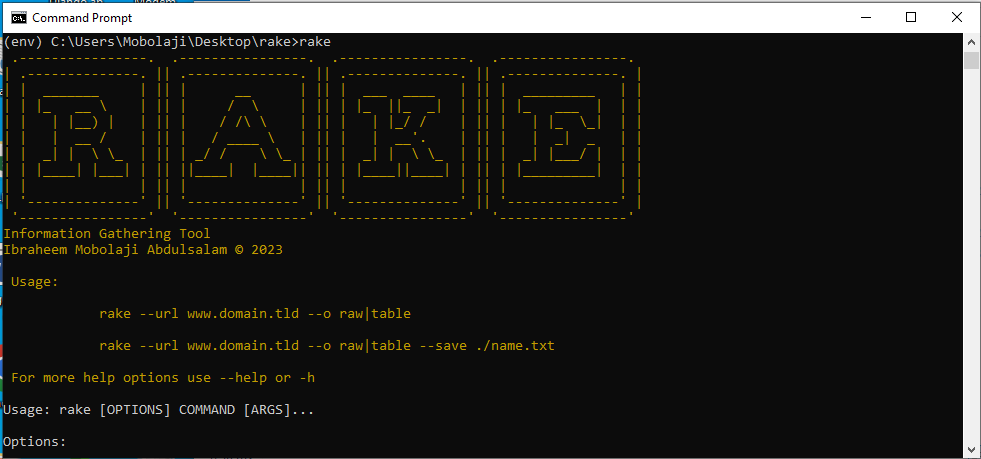
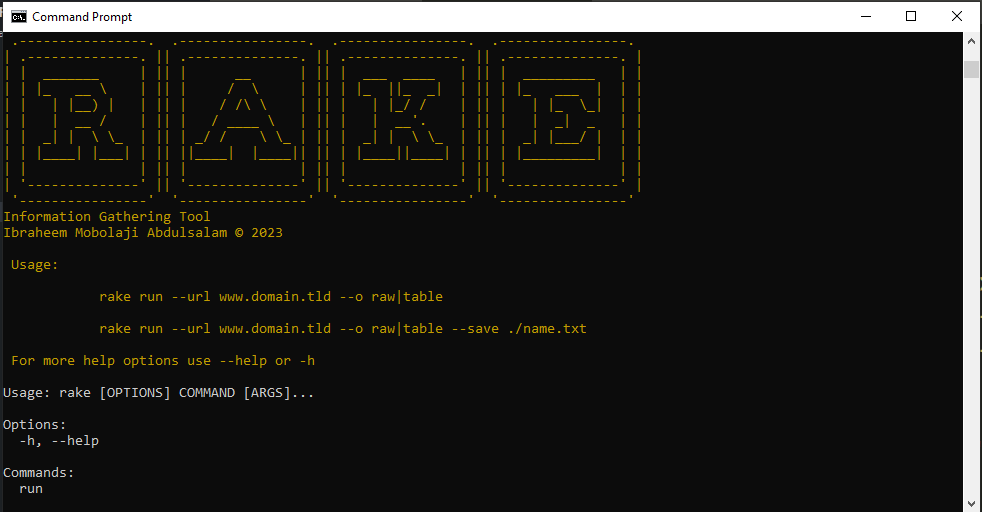
latest

Changed region(s): [[0.0, 0.0, 1.0, 1.0], [0.3364, 0.732, 0.581, 0.7625]]

diff --git a/rake.py b/rake.py
@@ -6,6 +6,8 @@ import time
 import PySimpleGUI as psg
 from datetime import datetime
 import random
+import json
+
 today =datetime.today()
 
 class Rake(BeautifulSoup):
@@ -27,14 +29,25 @@ class Rake(BeautifulSoup):
             table[data[0]] = data[1].strip()
         return table
 
-    def save(self, loc="./output.txt"):
-        with open(loc, "a") as out:
+    def json(self, fp):
+        return json.dump(self.info, fp)
+
+    def txt(self, fp):
+        with open(fp, "a") as out:
             for (k, v) in self.info().items():
                 out.write(f"{k}: {v}\n")
+            return True 
+
+    def csv(self, fp):
+        with open(loc, "a") as out:
+            out.write("Data, Detail")
+            for (k, v) in self.info().items():
+                out.write(f"{k}, {v}\n")
             return True
                 
     def gui(self):
         return "no gui yet"
+
 COLORS = (
         'blue',
         'green',
@@ -45,8 +58,8 @@ with open('./art.txt', 'r') as HELP:
         HELP = HELP.read()
         fg = random.choice(COLORS)
 HELP += f"""\nInformation Gathering Tool\nIbraheem Mobolaji Abdulsalam \xa9 {today.date().year}\n\n Usage:\n\t
-            rake --url www.domain.tld --o raw|table\n\t
-            rake --url www.domain.tld --o raw|table --save ./name.txt\n\n For more help options use --help or -h        
+            rake run --url www.domain.tld --o raw|table\n\t
+            rake run --url www.domain.tld --o raw|table --save ./name.txt\n\n For more help options use --help or -h        
             """
 
 CONTEXT_SETTINGS = dict(help_option_names=['-h', '--help'])
@@ -56,11 +69,12 @@ CONTEXT_SETTINGS = dict(help_option_names=['-h', '--help'])
 def cli():
     pass
 
-#@cli.command(name=None)
+@cli.command(name = "run")
 @click.option('--url', "-u", required=True, help='The url of the domain. Alias -u')
 @click.option('--save', "-s", help='Where to save the file. default is text file. Alias -s')
 @click.option("--o", help="type of stout, options include raw, table. if not included, no stout for display")
-def gather(url, o, save=None):
+@click.argument("fpath")
+def gather(url, o, save=None, fpath=None):
     try:
         r = Rake(domain = url)
     except Exception:
@@ -76,10 +90,15 @@ def gather(url, o, save=None):
                 click.echo(f"\t{i}: {j}")
 
     if save:
-        dr = os.path.isfile(save)
-        match dr:
-            case True:
-                click.echo(r.save(loc=save))
-            case False:
-                click.echo("Invalid file path")
+        if fpath && save == os.path.split(fpath)[1].split(".")[-1]:
+            dr = os.path.isfile(fpath)
+            match dr:
+                case "txt":
+                    click.echo(r.txt(loc=save))
+                case "json":
+                    click.echo(r.json(loc=save))
+                case "csv":
+                    click.echo(r.csv(loc=save))
+        else:
+            click.echo("Invalid output file name. Check your fpath and save", fg="red")
  

diff --git a/setup.py b/setup.py
@@ -2,6 +2,8 @@ from setuptools import setup
 
 setup(
     name='rake',
+    author_name = "Ibraheem Mobolaji Abdulsalam",
+    author_email = "ibmabdulsalam@gmail.com",
     version='0.1.0',
     py_modules=['rake'],
     install_requires=[
@@ -13,8 +15,7 @@ setup(
     ],
     entry_points={
         'console_scripts': [
-            'rake = rake:cli',
-            'rake-start = rake:main',
+            'rake = rake:cli'
         ],
     },
 )

diff --git a/README.md b/README.md
@@ -1,5 +1,5 @@
 # Rake
-## Whois on command line
+## _Whois on command line_
 Rake is a domain level information gathering tool
 
 ![N|Solid](./assets/rake_windows.PNG)
@@ -19,5 +19,5 @@ python setup.py install
 ```
 ## Usage
 ```sh
-rake --url domain-name -o raw|table|json|csv|txt --save myfilename.ext
+rake run --url domain-name -o raw|table|json|csv|txt --save myfilename.ext
 ```
